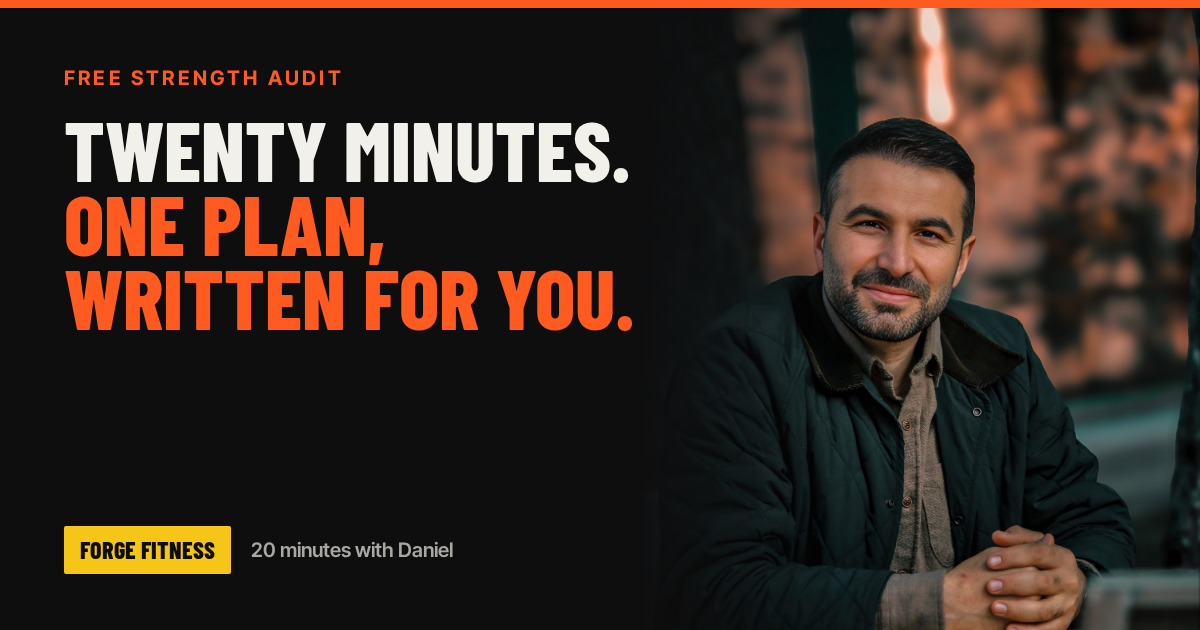
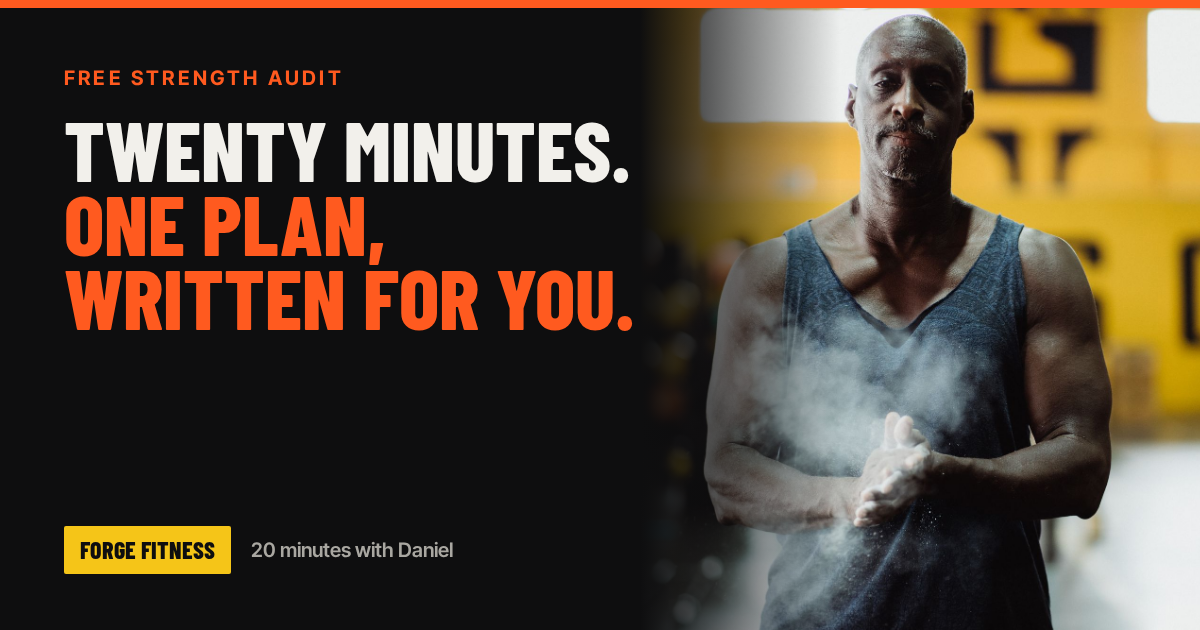
Forge photography: ten Pexels shots via keyless fetch, photo bands, new heroes
Pexels paused new API keys, so photos.mjs gains a `fetch` mode that downloads
from the public image CDN by id (ids found by fetching pexels.com search pages,
photographer from the photo page, row upserted in CREDITS.md). /photos documents
the keyless workflow.

- Checkout hero: man ~40 setting up a deadlift (ledger card moved out of the
  hero so the lifter shows; Mark's 70 -> 130 kg added to the proof strip)
- Calendar hero: mature lifter chalking up; VSL stages: deadlift lockout,
  garage rack; share images updated
- PhotoBand: full-bleed photo with one display line, used so long pages never
  run more than ~2 screens without imagery (press, chalk hands, deadlift grip)

diff --git a/web/src/components/clients/forge/photos.ts b/web/src/components/clients/forge/photos.ts
@@ -3,7 +3,17 @@ export const PHOTOS = {
   daniel: '/forge/photos/daniel.jpg',
   rack: '/forge/photos/rack.jpg',      // a man training at a home rack, low light
   desk: '/forge/photos/desk.jpg',      // the 3 p.m. slump: man at a desk, tired
-  bar: '/forge/photos/bar.jpg',        // chalked hands on a loaded bar
+  bar: '/forge/photos/bar.jpg',        // bench press under the bar, dark gym
+  deadlift: '/forge/photos/deadlift.jpg',            // man ~40 setting up a deadlift, warm low light (landscape, subject centre-right)
+  deadliftLockout: '/forge/photos/deadlift-lockout.jpg', // deadlift lockout facing camera, dark gym
+  deadliftGrip: '/forge/photos/deadlift-grip.jpg',   // hands and feet at the bar, dark
+  press: '/forge/photos/press.jpg',                  // mature lifter, barbell in the front rack
+  chalkCoach: '/forge/photos/chalk-coach.jpg',       // mature lifter clapping chalk, yellow gym
+  chalkHands: '/forge/photos/chalk-hands.jpg',       // chalking hands at the rack (portrait)
+  barGrip: '/forge/photos/bar-grip.jpg',             // close-up of hands gripping the bar
+  plates: '/forge/photos/plates.jpg',                // loaded bar on the floor, dark
+  plateKg: '/forge/photos/plate-kg.jpg',             // 15 kg plates close-up (portrait)
+  garageRack: '/forge/photos/garage-rack.jpg',       // home power rack, dark
 } as const;
 const CLIENTS: Record<string, string> = {
   'mark t.': 'mark.jpg', 'james o.': 'james.jpg', 'ravi s.': 'ravi.jpg', 'ben k.': 'ben.jpg', 'luca m.': 'luca.jpg', 'owen p.': 'owen.jpg', 'sam d.': 'sam.jpg', 'tom h.': 'tom.jpg',

diff --git a/web/public/forge/photos/CREDITS.md b/web/public/forge/photos/CREDITS.md
@@ -16,5 +16,15 @@ All photos from Pexels under the Pexels License (free for commercial use; attrib
 | owen.jpg | "Owen P." | https://www.pexels.com/photo/36298150/ |
 | sam.jpg | "Sam D." | https://www.pexels.com/photo/12871449/ |
 | tom.jpg | "Tom H." | https://www.pexels.com/photo/8241351/ |
+| deadlift.jpg | Hero: setting up a deadlift, dark gym | https://www.pexels.com/photo/19132573/ (Hugazo Boss) |
+| deadlift-lockout.jpg | Alt hero: deadlift lockout | https://www.pexels.com/photo/9171160/ (Abdulrhman Alkady) |
+| press.jpg | Mature lifter, barbell front rack | https://www.pexels.com/photo/4720814/ (Ketut Subiyanto) |
+| chalk-coach.jpg | Mature lifter chalking up | https://www.pexels.com/photo/4720518/ (Ketut Subiyanto) |
+| chalk-hands.jpg | Chalking hands at the rack | https://www.pexels.com/photo/9644820/ (Ron Lach) |
+| bar-grip.jpg | Hands on the bar | https://www.pexels.com/photo/5327527/ (Tima Miroshnichenko) |
+| plates.jpg | Loaded bar on the floor | https://www.pexels.com/photo/2261481/ (Victor Freitas) |
+| plate-kg.jpg | 15 kg plates close-up | https://www.pexels.com/photo/4164468/ (Ivan S) |
+| garage-rack.jpg | Home rack, dark | https://www.pexels.com/photo/38965744/ (Brett Jordan) |
+| deadlift-grip.jpg | Deadlift set-up, hands and feet | https://www.pexels.com/photo/949129/ (Victor Freitas) |
 
 Replace with the real client's photos before launch; keep the file names and nothing else changes.

diff --git a/clients/forge/DESIGN-PLAN.md b/clients/forge/DESIGN-PLAN.md
@@ -30,7 +30,8 @@ Labels are Inter Tight 600 uppercase with wide tracking, used sparingly (one per
 ## Photography (shot list → `/photos forge`)
 Real men in their late 30s to 50s, dark gyms or garage racks, hard side light, chalk, no shirtless shots, eyes on the bar rather than the camera.
 deadlift (hero) · squat (hero alt) · overhead-press · barbell-row · chalk-hands · garage-rack · hotel-gym · plates-loading (close-up) ·
-coach-cue (Daniel spotting/cueing) · logbook · the 6:40 p.m. desk scene. Current stand-ins: `rack.jpg` (squat), `bar.jpg` (bench), `daniel.jpg`, `desk.jpg`.
+coach-cue (Daniel spotting/cueing) · logbook · the 6:40 p.m. desk scene. In place (Pexels, see CREDITS.md): deadlift (checkout hero) · deadlift-lockout (vsl-checkout stage) · chalk-coach (calendar hero) · garage-rack (vsl-call stage, calendar close) · press · chalk-hands · deadlift-grip (photo bands) · rack (ebook hero) · bar (closes) · bar-grip · plates · plate-kg (spare). Still wanted: overhead press at lockout, barbell row, hotel gym, coach cueing.
+`PhotoBand` (full-bleed photo + one display line) keeps long pages from running more than ~2 screens without imagery.
 
 ## Art system (`web/src/components/clients/forge/`)
 - `PhotoHero`: full-bleed photo, iron scrim on the copy side, stacked uppercase headline, CTA, proof strip pinned to the bottom.

diff --git a/.claude/skills/photos/SKILL.md b/.claude/skills/photos/SKILL.md
@@ -6,7 +6,10 @@ argument-hint: "<slug> \"<shot brief>\""
 
 # /photos — shot brief → Pexels → client photo set
 
-Needs `PEXELS_API_KEY` in `web/.dev.vars` (free: https://www.pexels.com/api/). If it's missing, stop and ask for it.
+Two ways in:
+- **With `PEXELS_API_KEY`** in `web/.dev.vars`: `search` + `get` below.
+- **Without a key** (Pexels paused new keys in Oct 2026): WebFetch `https://www.pexels.com/search/<query>/` and ask for every photo's numeric id + alt text (plain curl gets 403), download `https://images.pexels.com/photos/<id>/pexels-photo-<id>.jpeg?auto=compress&cs=tinysrgb&w=420` thumbnails into the scratchpad, tile them into a labelled contact sheet (PIL), look, then WebFetch each pick's `https://www.pexels.com/photo/<id>/` for the photographer and run
+  `node scripts/photos.mjs fetch <slug> <name> <id> "<used as>" "<photographer>"`.
 
 1. **Shot list first.** From `clients/<slug>/DESIGN-PLAN.md` (photography section) and the page maps, write the list:
    `name · role (hero / problem / mechanism / proof / coach / close) · orientation · subject + action + light + crop`.
